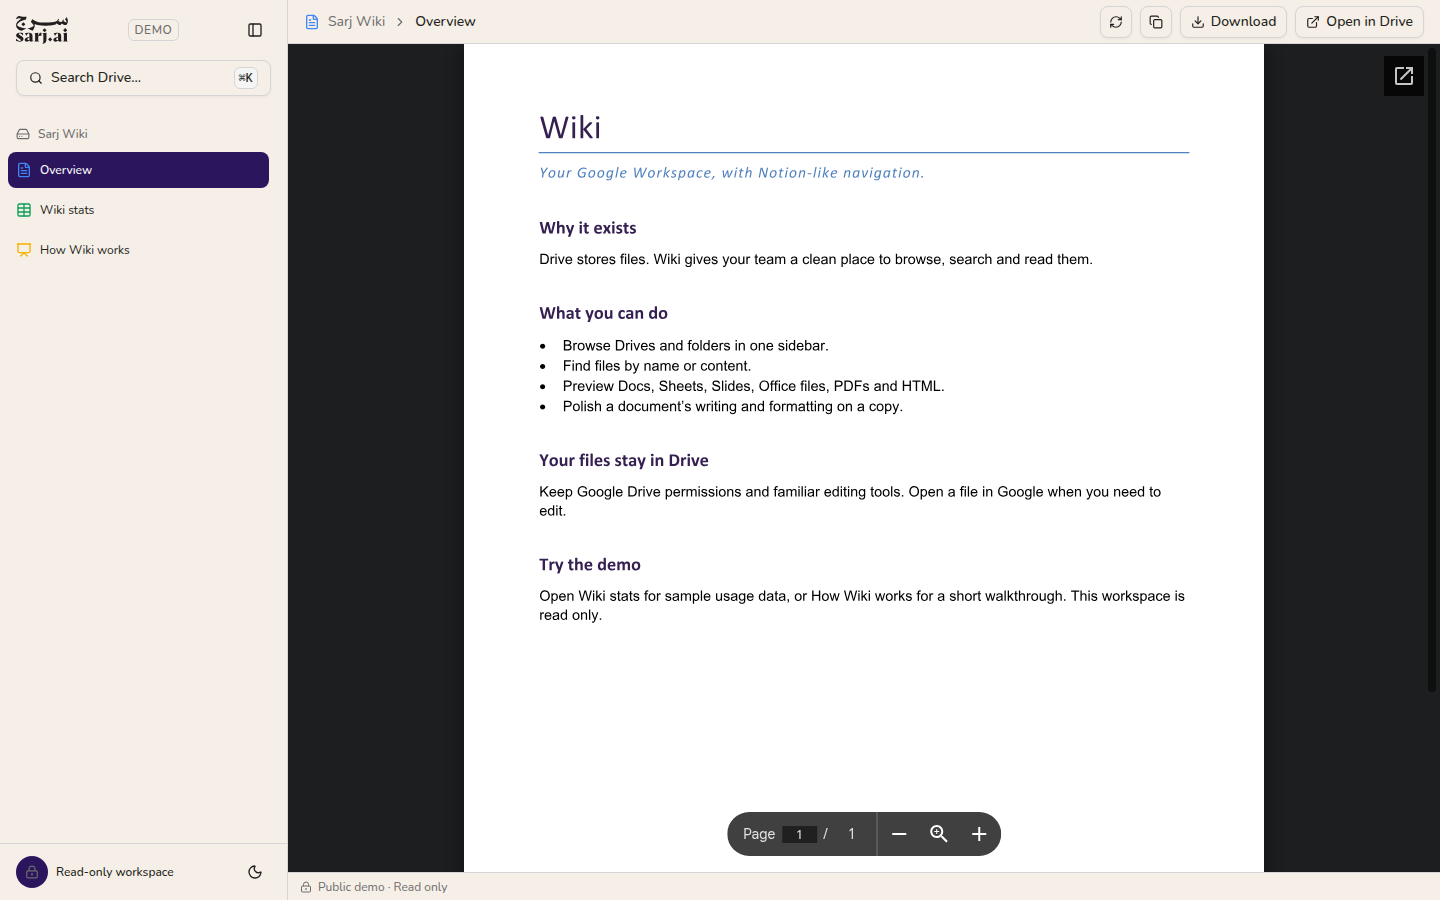
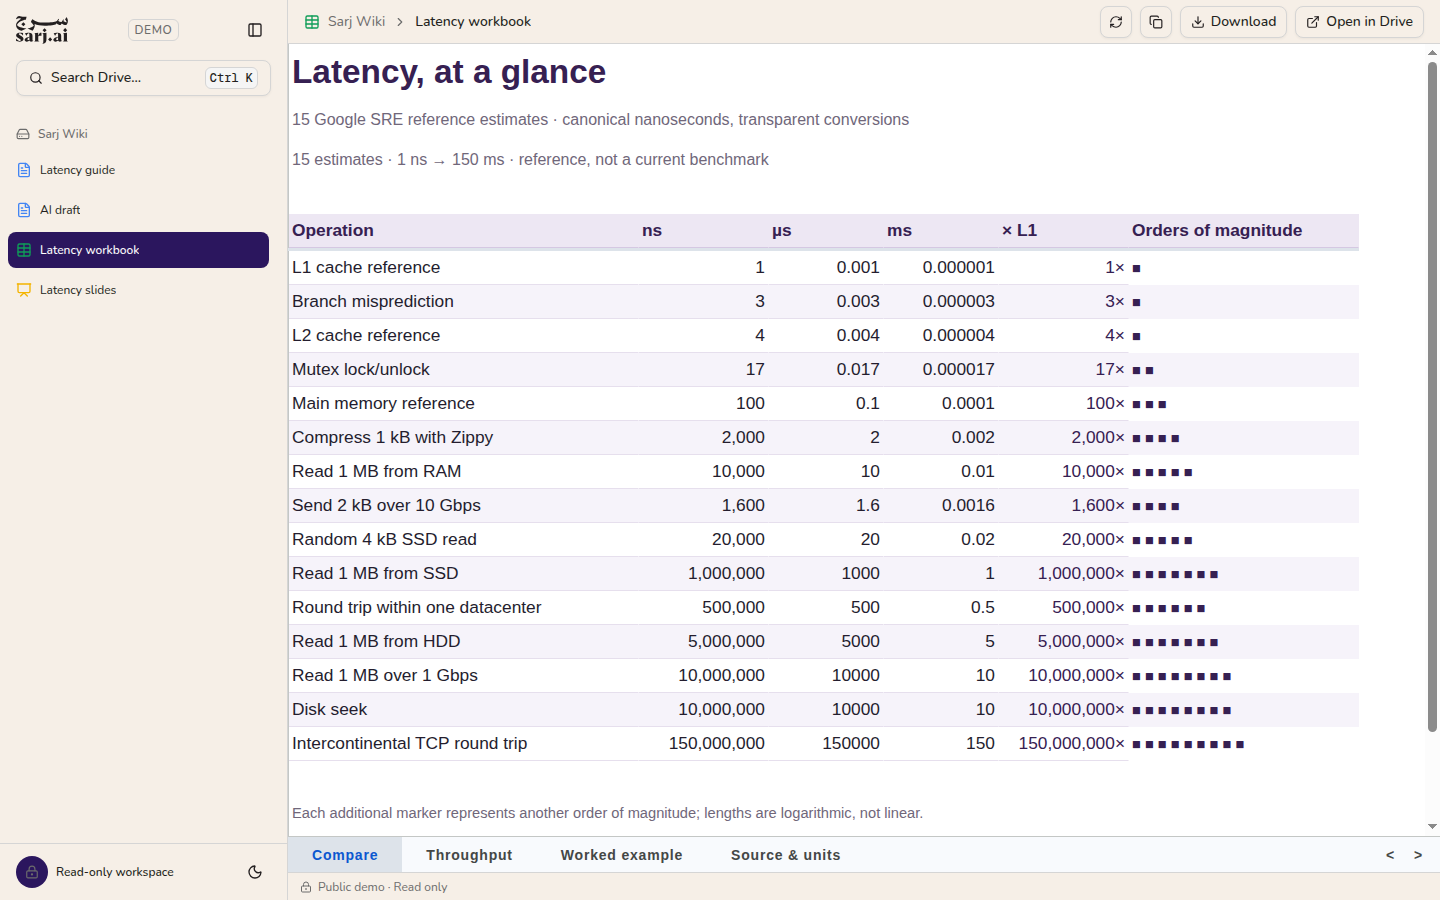
docs(wiki): refresh native demo screenshot and keyboard navigation

diff --git a/apps/docs/src/lib/wiki-project.ts b/apps/docs/src/lib/wiki-project.ts
@@ -8,7 +8,9 @@ export function setupWikiTabs(): void {
   if (tabs.length === 0) return;
   for (const [index, tab] of tabs.entries()) {
     tab.addEventListener("click", () => activateTab(tab, tabs));
-    tab.addEventListener("keydown", (event) => moveTab(event, tabs, index));
+    tab.addEventListener("keydown", (event) =>
+      moveTab(event, tabs, index, tabList.ariaOrientation === "vertical"),
+    );
   }
   const desktop = window.matchMedia("(min-width: 48rem)");
   const orient = (): void => {
@@ -22,15 +24,14 @@ function moveTab(
   event: KeyboardEvent,
   tabs: readonly HTMLButtonElement[],
   index: number,
+  vertical: boolean,
 ): void {
   let next: number;
   switch (event.key) {
-    case "ArrowUp":
-    case "ArrowLeft":
+    case vertical ? "ArrowUp" : "ArrowLeft":
       next = index - 1;
       break;
-    case "ArrowDown":
-    case "ArrowRight":
+    case vertical ? "ArrowDown" : "ArrowRight":
       next = index + 1;
       break;
     case "Home":
